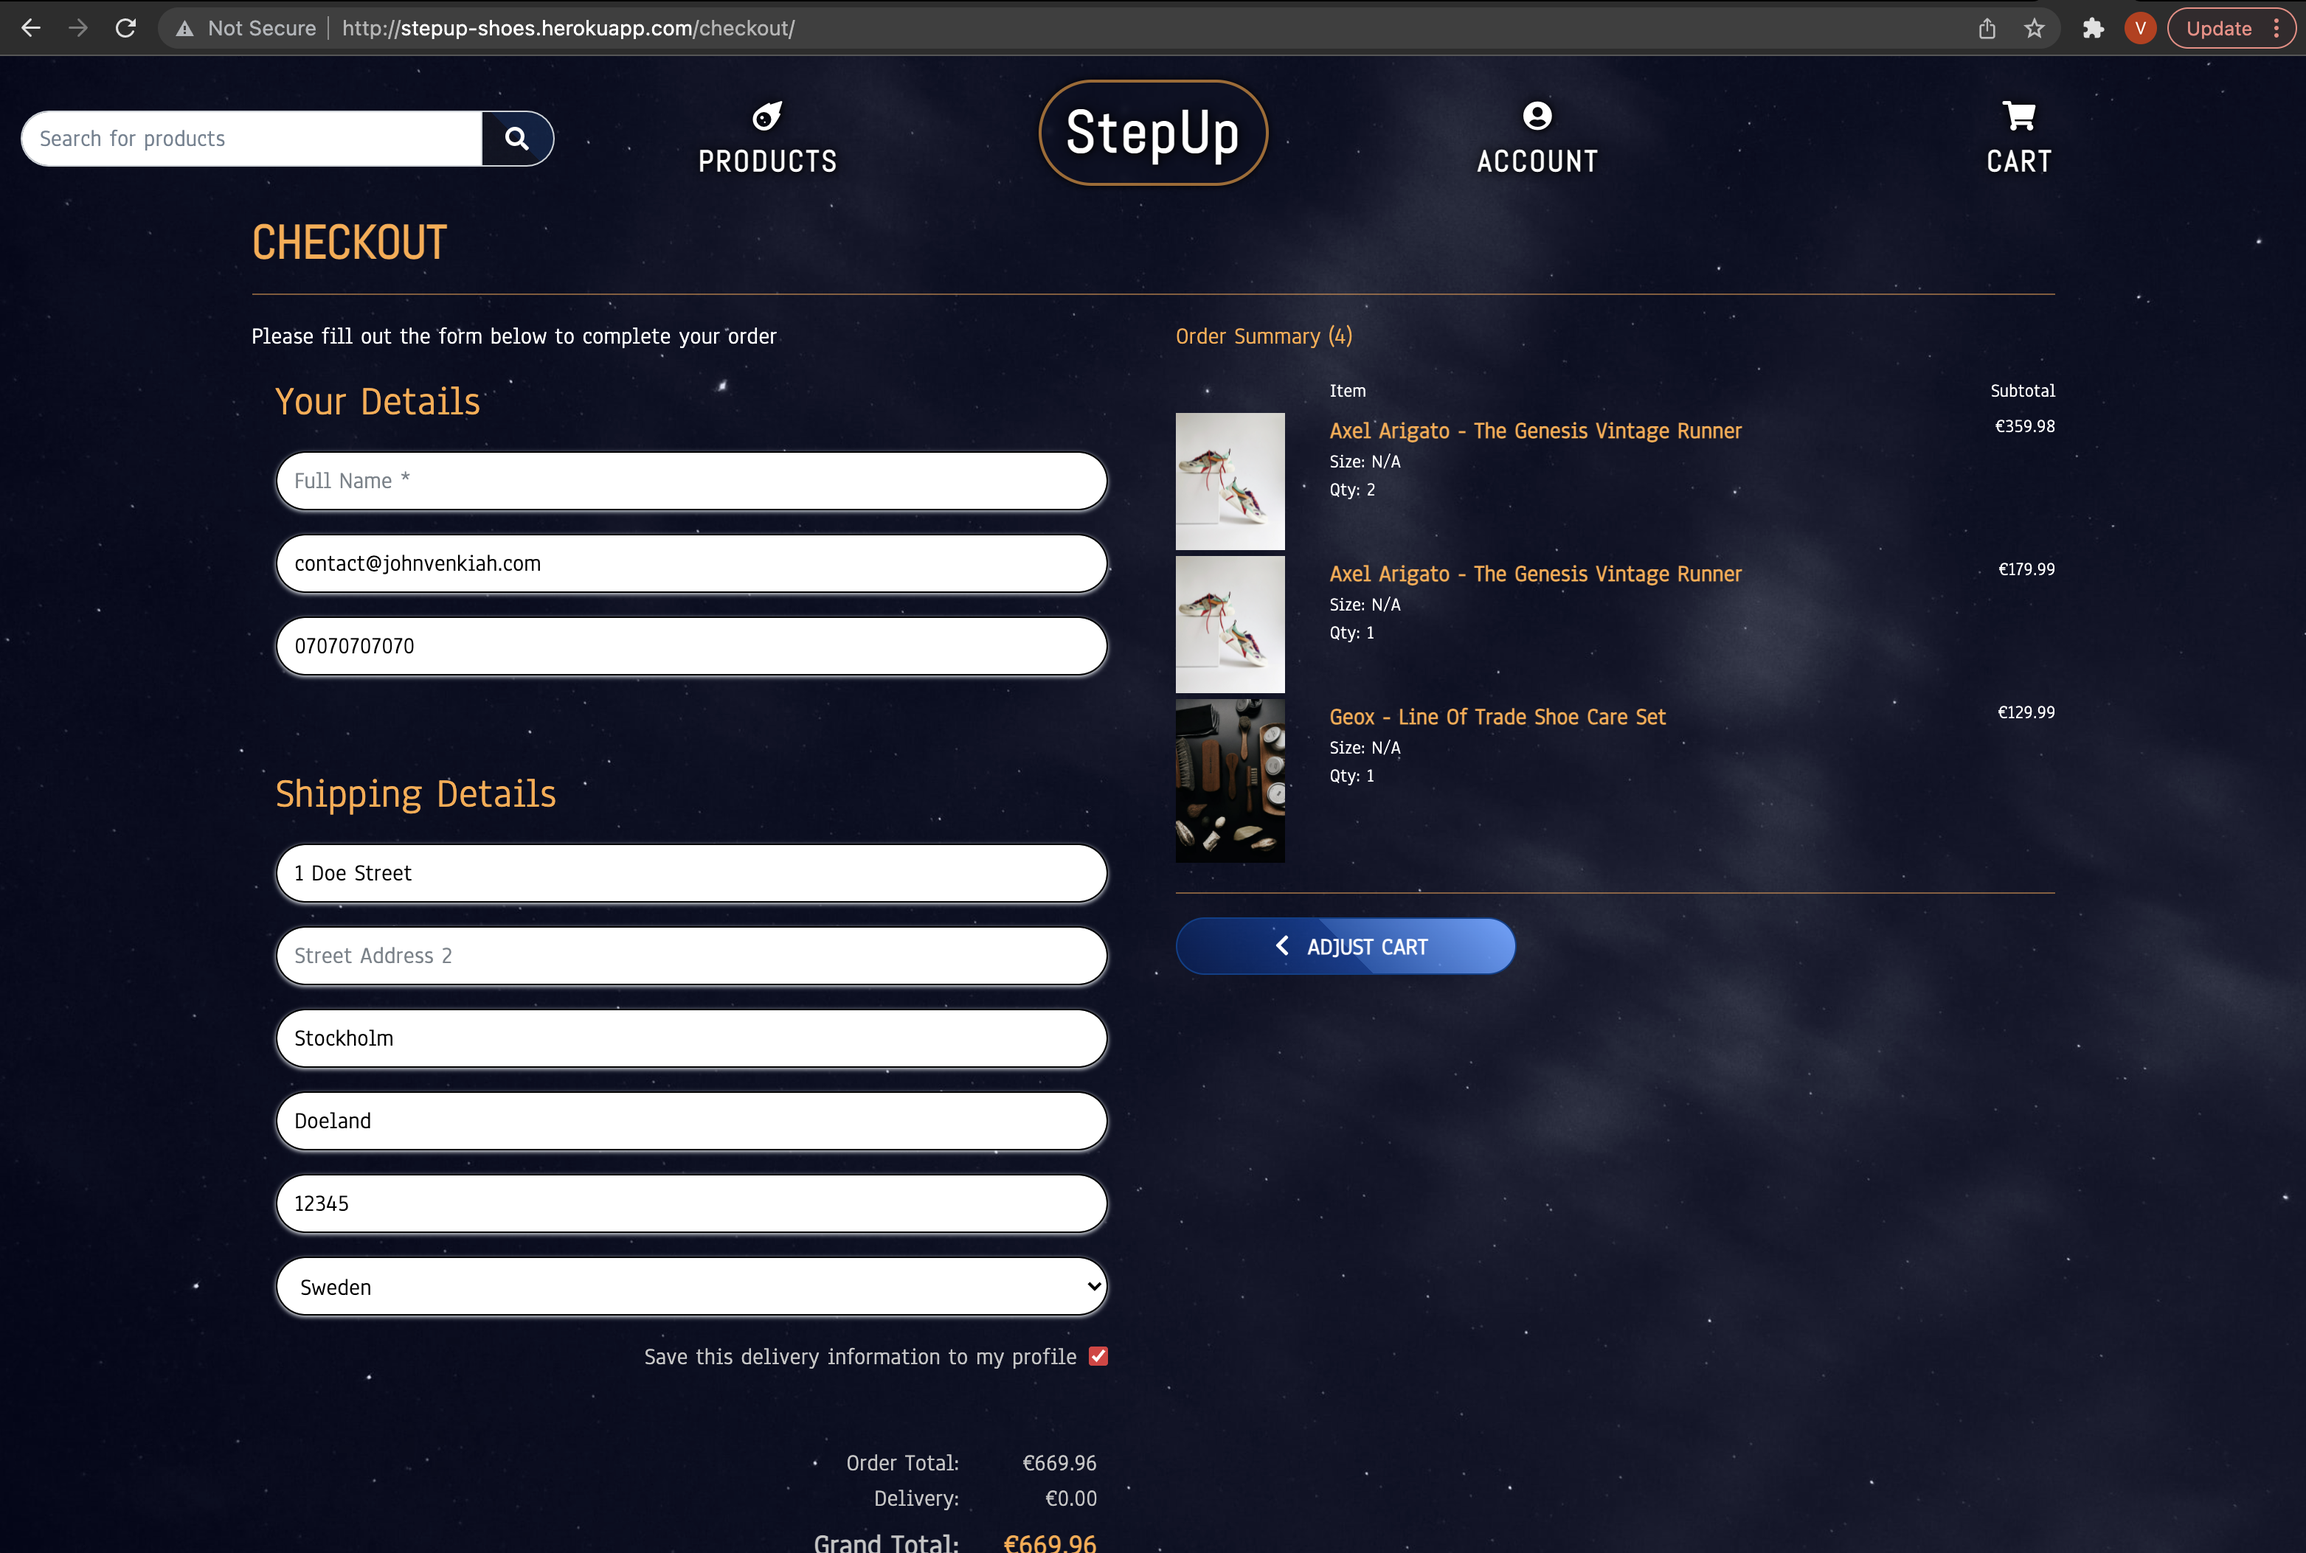
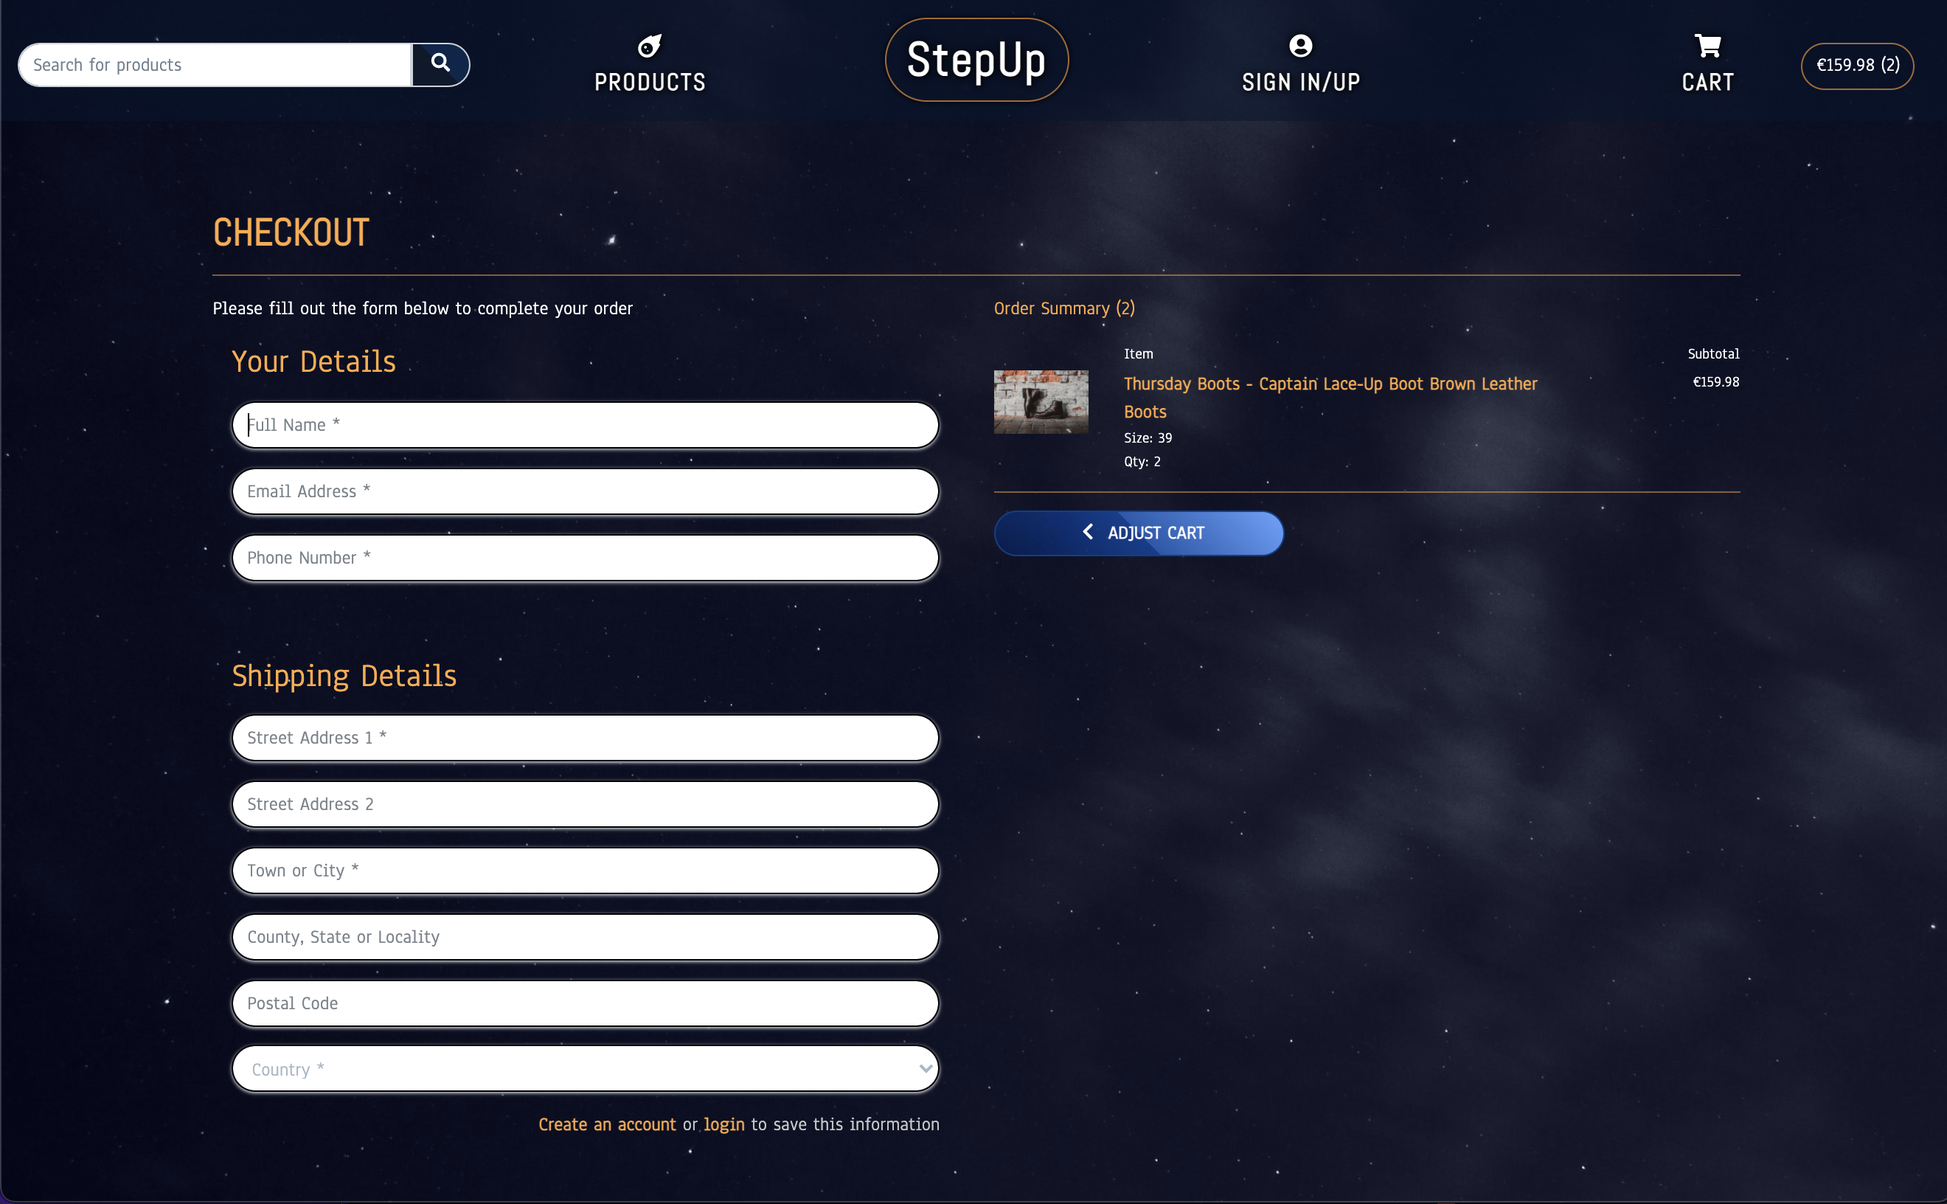
docs: add feature 8 with images to readmes

diff --git a/README.md b/README.md
@@ -669,7 +669,37 @@ A toast, a small dialog window at the top right, will be visible after adding an
 
 ### Feature 7: The Checkout Page
 
-The checkout page features a form for the user to fill in, with name, email, phone nr, delivery address and card details. From here, if user is authenticated, they can save their details to their My StepUp profile so they are prefilled for the next order.
+The checkout page features a form for the user to fill in, with name, email, phone nr, delivery address and card details. From here, if user is authenticated, they can save their details to their My StepUp profile so they are prefilled for the next order. If they are not logged in, a link to log in is displayed in place of that option.
+
+If the payment fails or info is sufficient, the user gets a new chance to enter their info, without being charged.
+---
+
+**Checkout page on desktop**
+
+![Checkout page on desktop](https://github.com/johnvenkiah/CI_PP5_John_Venkiah/blob/main/docs/testing/screenshots/user_case_1/desktop_checkout.png)
+---
+
+<details>
+    <summary>View More Images Here</summary>
+
+---
+
+**Checkout page on tablet**
+
+![Checkout page on tablet](https://github.com/johnvenkiah/CI_PP5_John_Venkiah/blob/main/docs/testing/screenshots/user_case_2/tablet_checkout_details_filled.png)
+---
+
+**Checkout page card details on mobile**
+
+![Checkout page bottom on mobile](https://github.com/johnvenkiah/CI_PP5_John_Venkiah/blob/main/docs/testing/screenshots/user_case_1/mobile_pay_btn.png)
+---
+
+**Payment processing on mobile**
+
+![Checkout page bottom on mobile](https://github.com/johnvenkiah/CI_PP5_John_Venkiah/blob/main/docs/testing/screenshots/user_case_1/mobile_payment_processing.png)
+---
+
+</details>
 
 **User stories covered:**
 
@@ -679,9 +709,40 @@ The checkout page features a form for the user to fill in, with name, email, pho
 
 20. As a user, i can enter my card details on the checkout page, so that I can make the desired purchase
 
+
 ### Feature 8: The Order Successful Page
 
-If the user has made a successful purchase, the order created will be displayed to the user. This also informs the user that the order confirmation was sent to the users email address, so that the user can close their browser window should they wish.
+If the user has made a successful purchase, an order confirmation will be displayed to the user, and sent to the given email address during checkout. If the order was successful, the cart will be emptied, and, if the user is logged in and had any of the items in their wishlist, they are removed from there.
+
+In the confirmation, the user can view the items order, their sizes and quantity, an order number, grand total and delivery details.
+---
+
+**Order confirmation page on desktop**
+
+![Order confirmation page on desktop](https://github.com/johnvenkiah/CI_PP5_John_Venkiah/blob/main/docs/testing/screenshots/user_case_1/desktop_order_confirmation.png)
+---
+
+<details>
+    <summary>View More Images Here</summary>
+
+---
+
+**Order Confirmation page on tablet**
+
+![Order Confirmation page on tablet](https://github.com/johnvenkiah/CI_PP5_John_Venkiah/blob/main/docs/testing/screenshots/user_case_1/tablet_order_confirmation.png)
+---
+
+**Order Confirmation page on mobile**
+
+![Order Confirmation page on mobile](https://github.com/johnvenkiah/CI_PP5_John_Venkiah/blob/main/docs/testing/screenshots/user_case_1/mobile_order_confirmation.png)
+---
+
+**Order Email Received**
+
+![Order Email Received](https://github.com/johnvenkiah/CI_PP5_John_Venkiah/blob/main/docs/testing/screenshots/user_case_1/order_confirmation_email_received.png)
+---
+
+</details>
 
 **User stories covered:**
 
